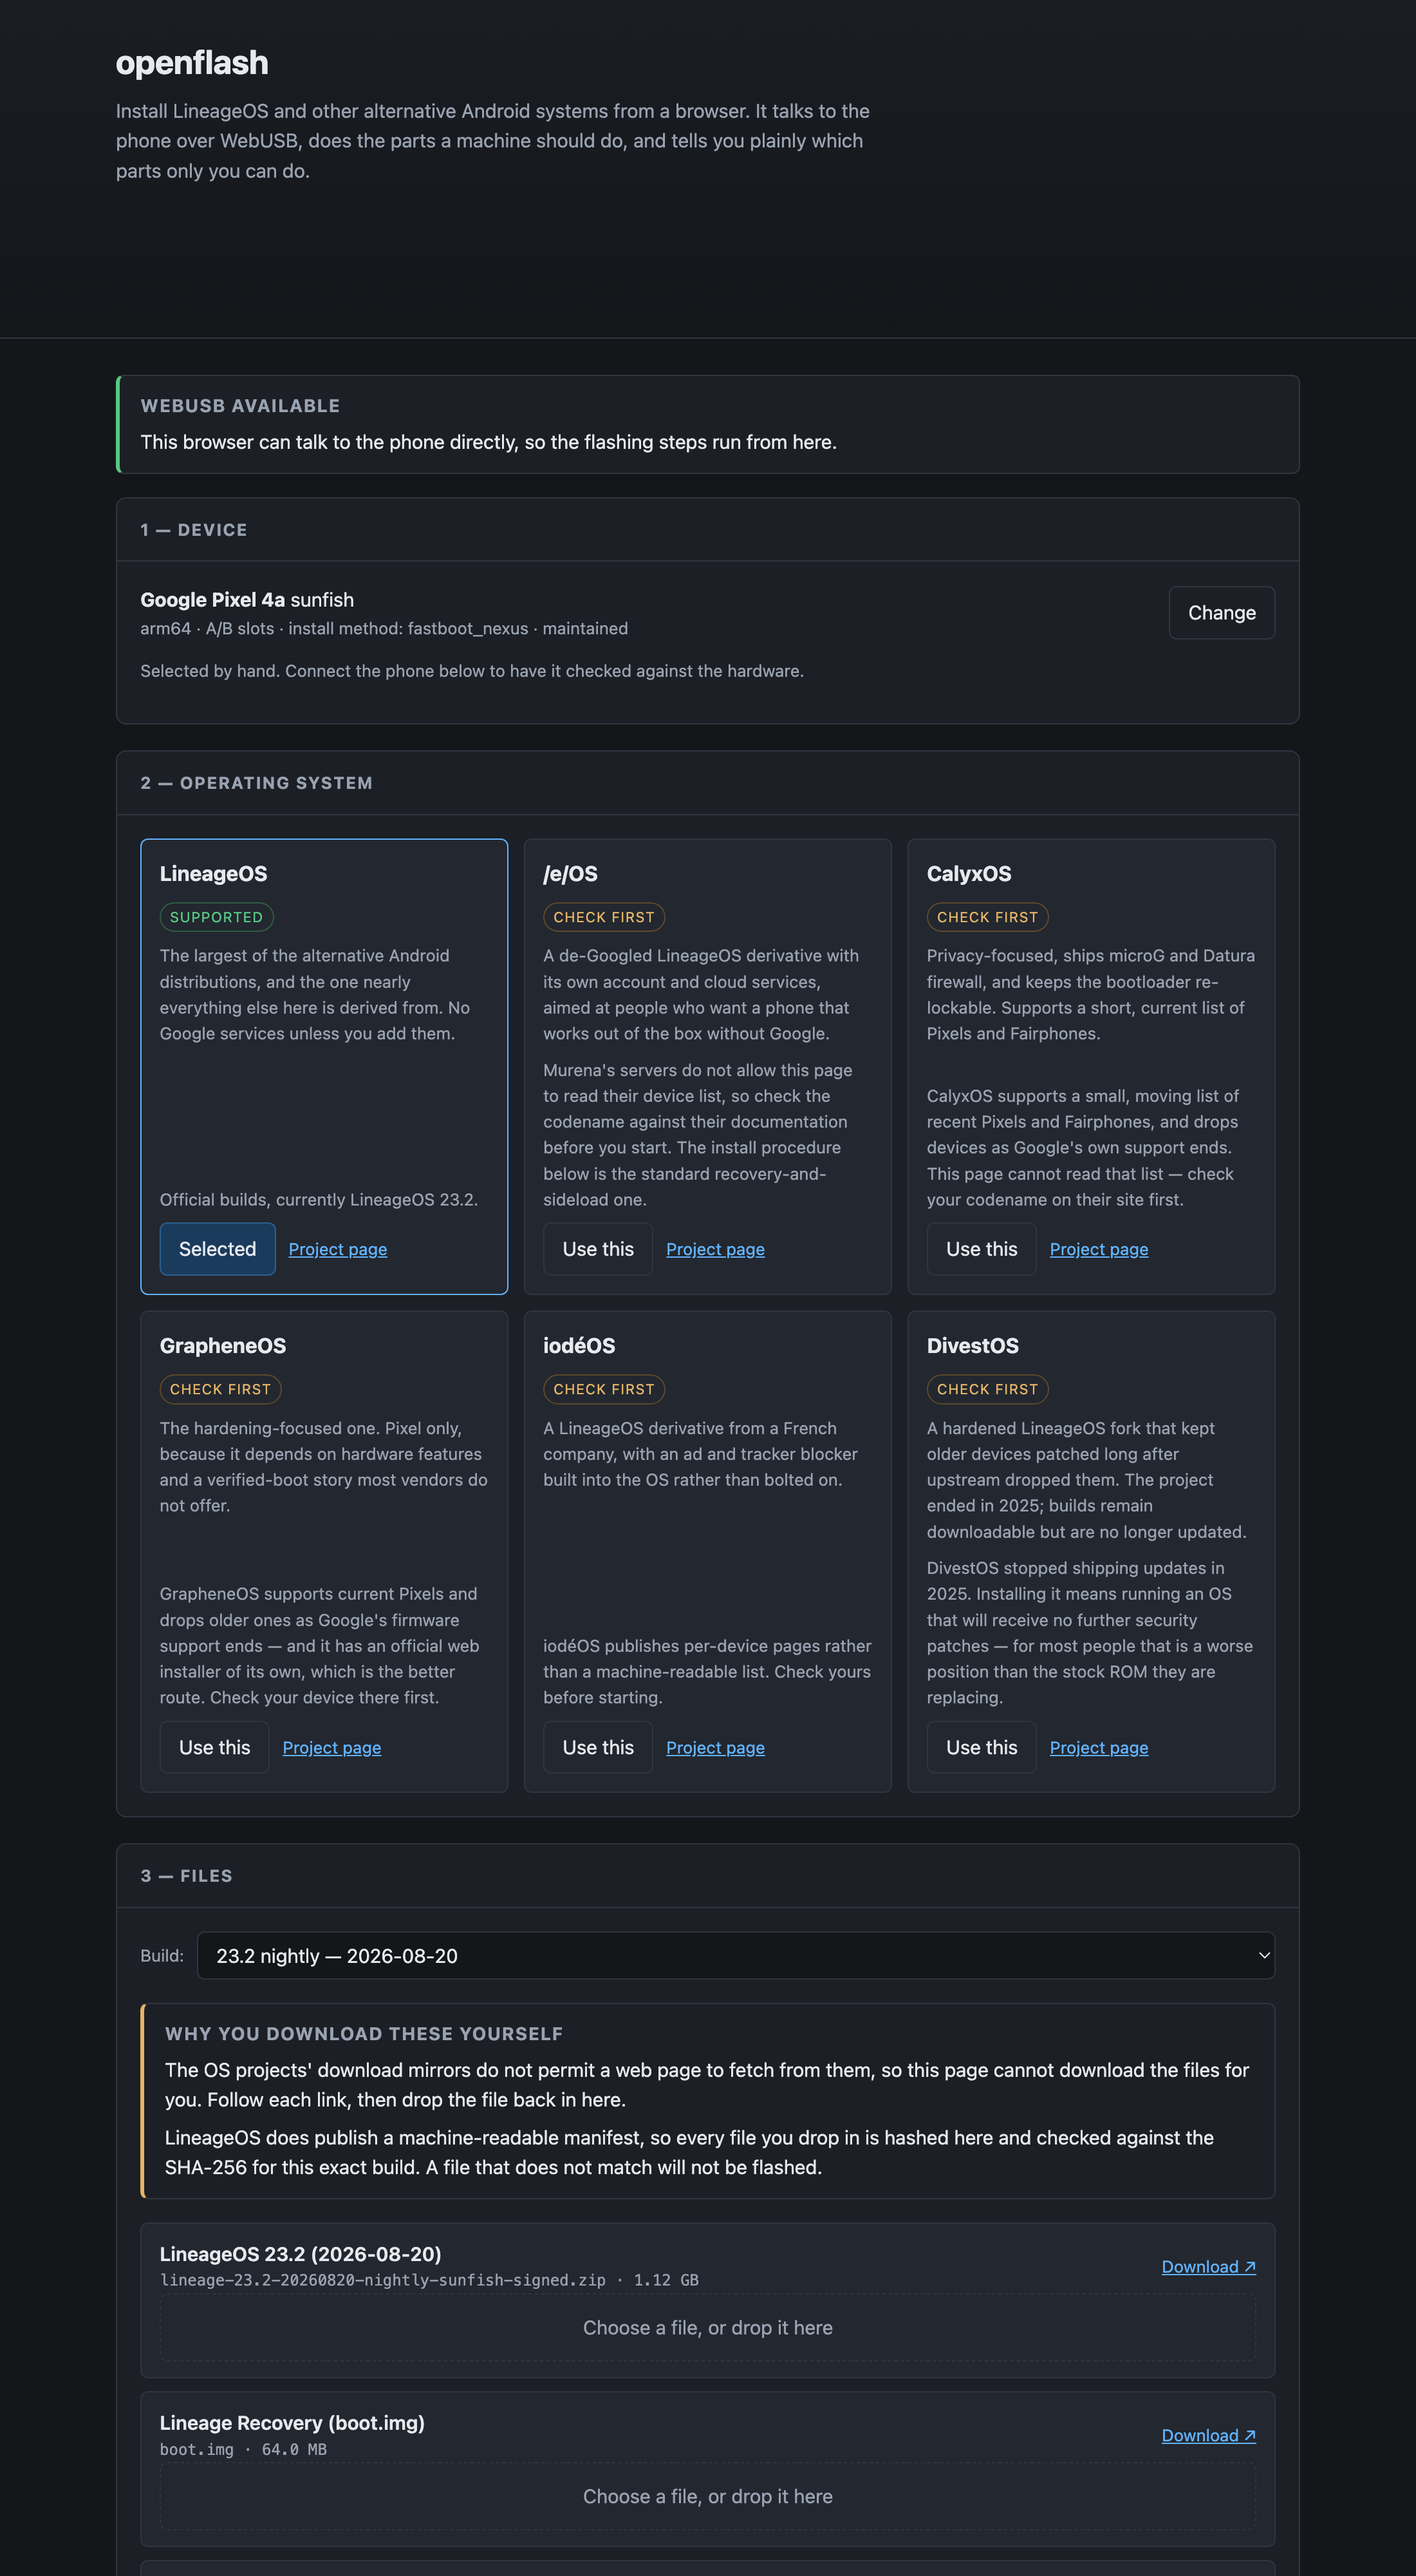
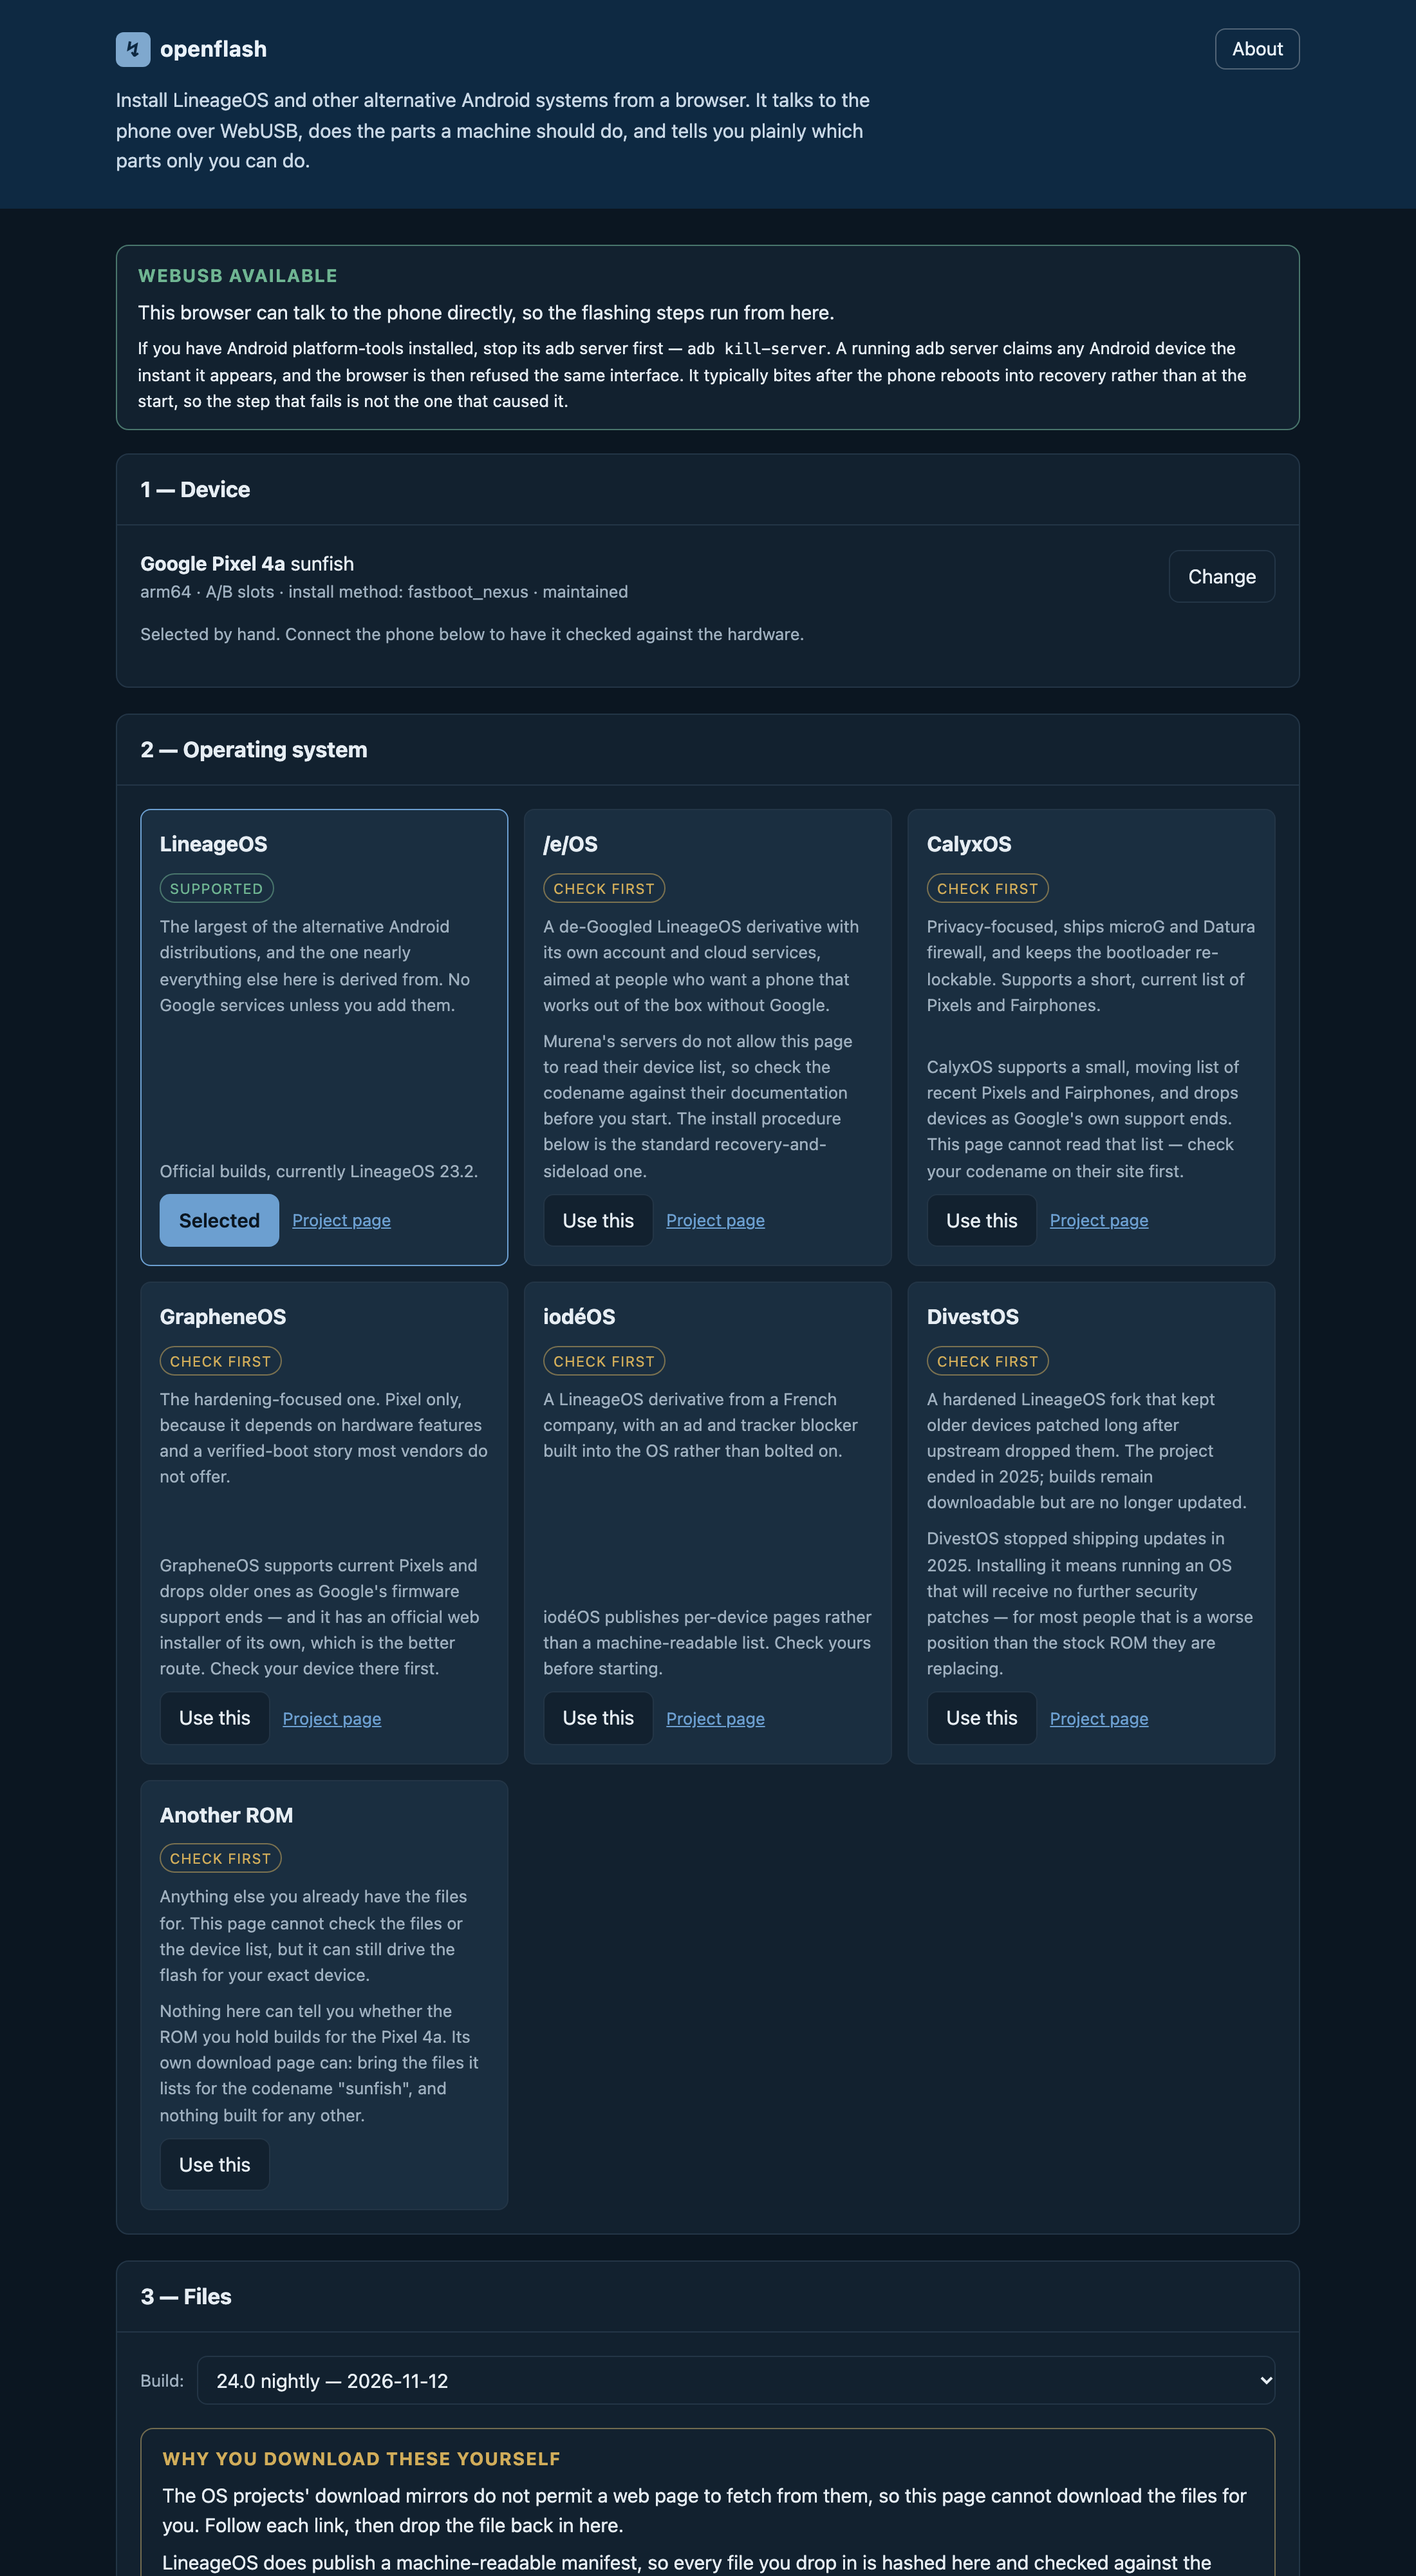
docs: retake screenshots in the new dark theme
Both from the live site in dark mode, deep-linked ?device=sunfish&os=lineageos, 1100 px wide @2x as scripts/screenshot.mjs does:
- device-and-os.png: the top 2000 px: Pixel 4a picked, LineageOS selected among the seven system cards, the 24.0 nightly build list
- procedure.png: 2700 px from y=2280 (the dtbo file card through step 07); the procedure now starts lower on the page, so the script's 1960 crop no longer frames it

README alt text: the system list now has an Another ROM card besides the six named systems.

diff --git a/README.md b/README.md
@@ -20,7 +20,7 @@ It has a [page on Stoatworks Labs](https://stoatworks-labs.com/web-tools/openfla
 
 <table>
   <tr>
-    <td align="center"><img src="docs/screenshots/device-and-os.png" width="420" alt="Device detected as a Pixel 4a, with six operating systems offered and their support status"><br><sub>pick a device, pick a system</sub></td>
+    <td align="center"><img src="docs/screenshots/device-and-os.png" width="420" alt="Device detected as a Pixel 4a, with six operating systems and an Another ROM choice offered, and their support status"><br><sub>pick a device, pick a system</sub></td>
     <td align="center"><img src="docs/screenshots/procedure.png" width="420" alt="The generated procedure for a Pixel 4a, with manual and automatic steps and their equivalent commands"><br><sub>the procedure it generates for that pair</sub></td>
   </tr>
 </table>
